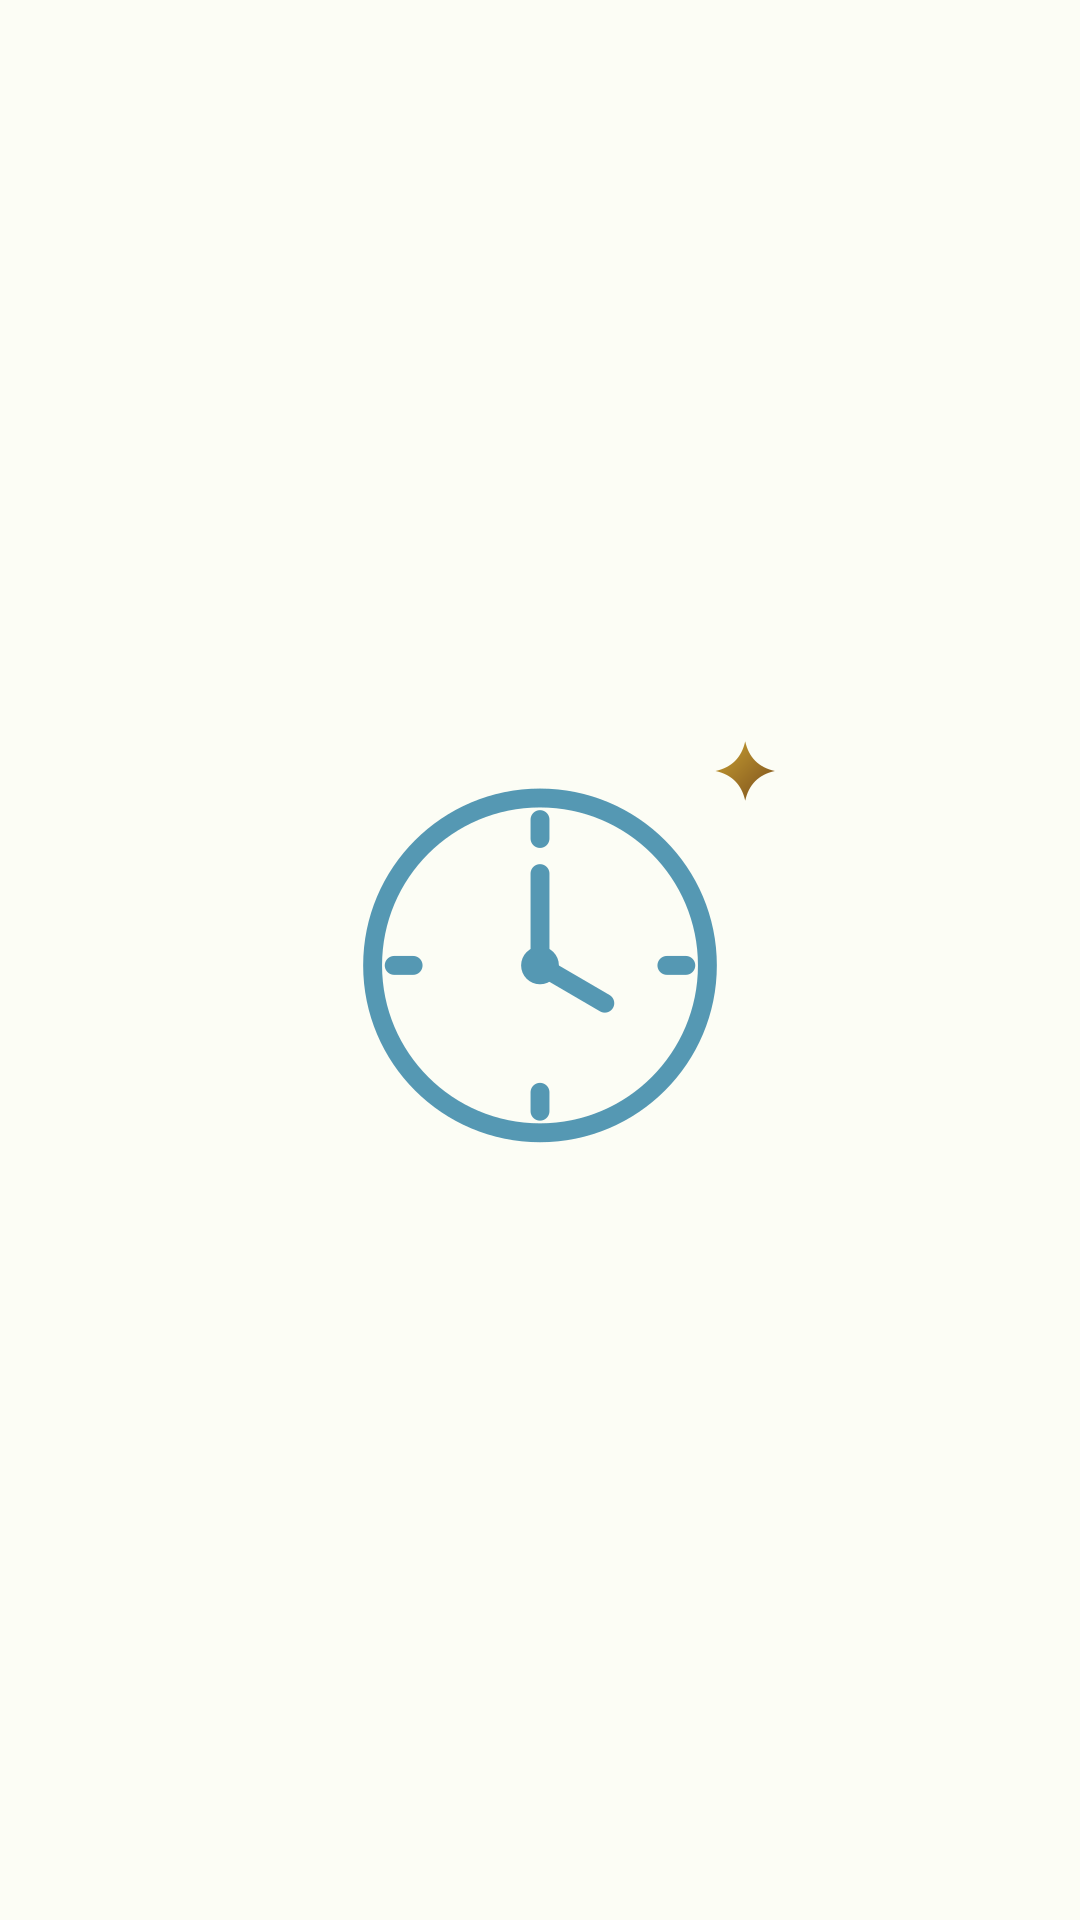
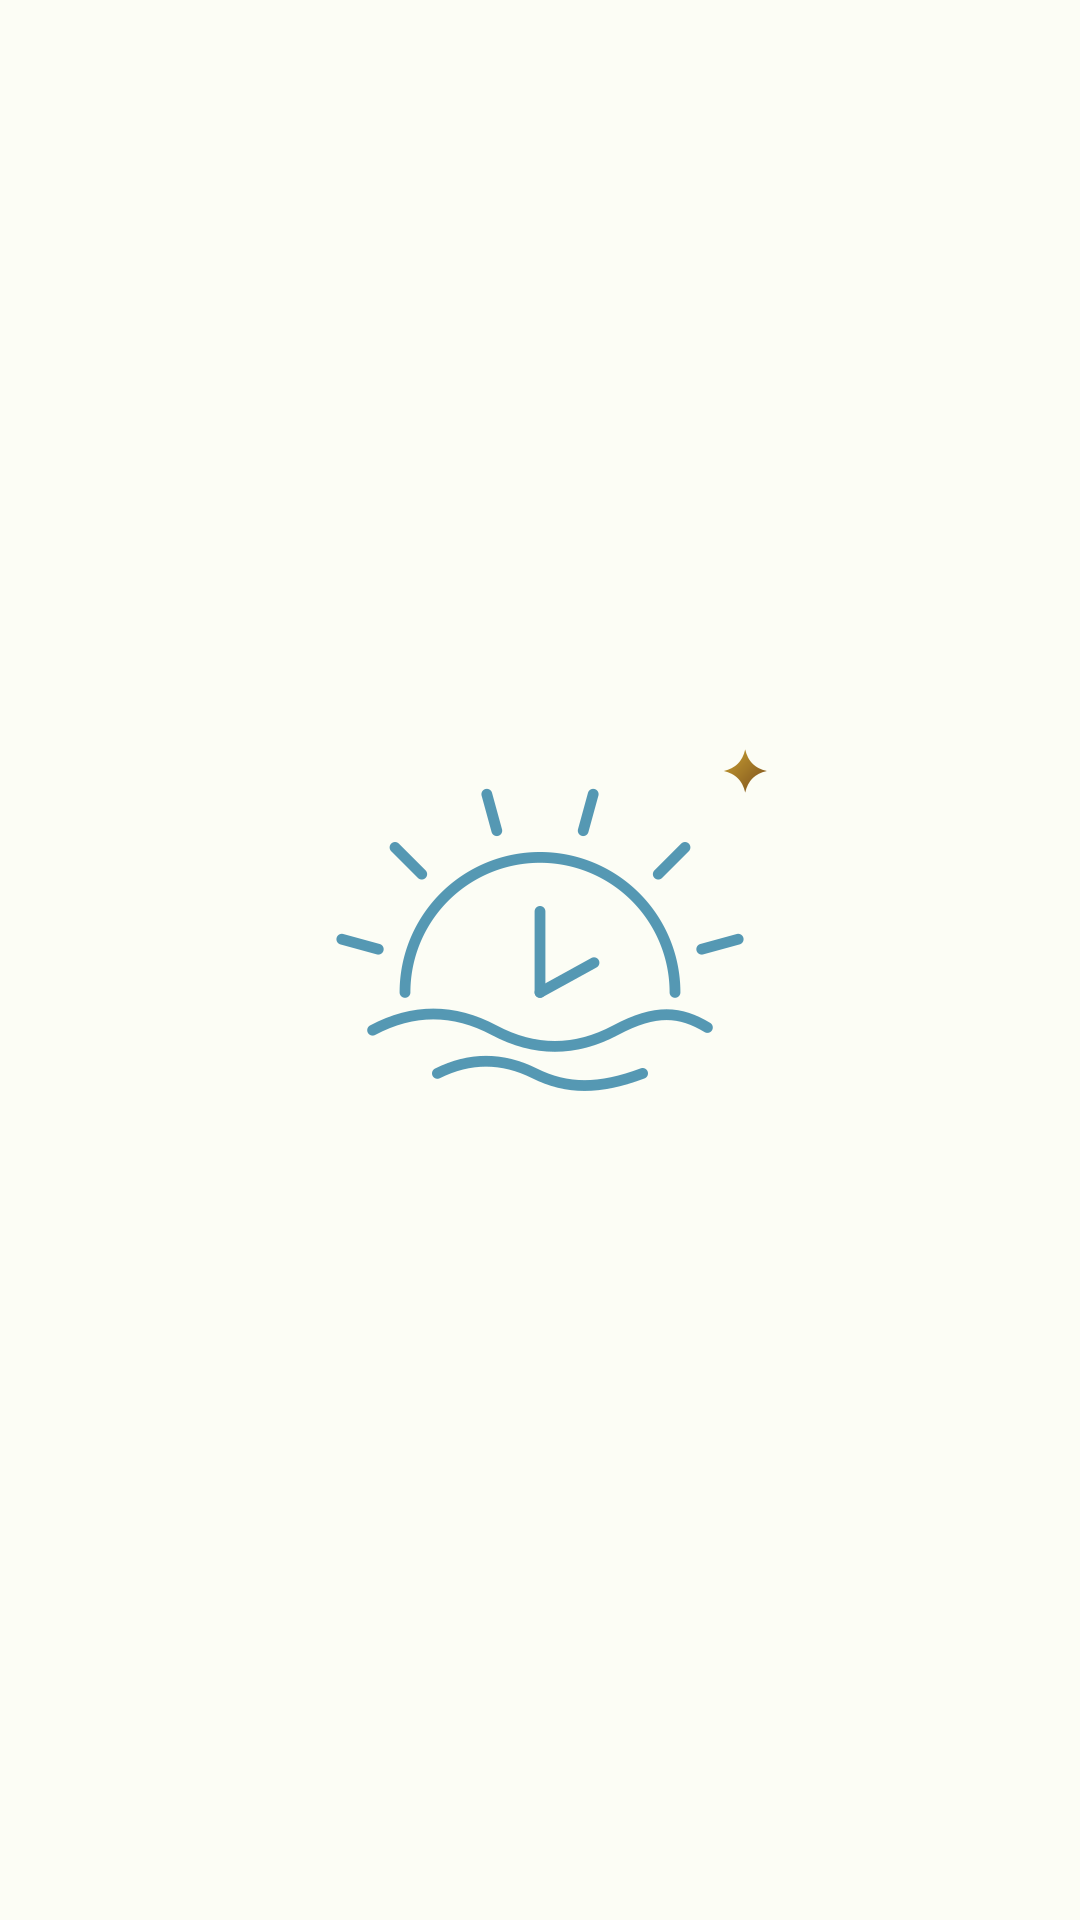
Refaz os ícones dos destaques com temas de moda praia e traço mais fino
Claude-Session: https://claude.ai/code/session_01SEXCXHhE5rPsFTnWY19DpN

Changed region(s): [[0.3056, 0.4062, 0.6722, 0.5938], [0.6722, 0.375, 0.7028, 0.4062]]

diff --git a/madame-solara/gerar_destaques.py b/madame-solara/gerar_destaques.py
@@ -8,30 +8,41 @@ CREME = "#FCFDF5"
 AZUL = "#5598B3"
 W, H = 1080, 1920  # formato de story; o Instagram recorta o círculo do centro
 
-# Ícones desenhados numa grade de 200 x 200
+# Ícones desenhados numa grade de 200 x 200, todos com elementos de moda praia
 ICONES = {
     "trocas": """
-        <path d="M45 78 H155"/><path d="M135 58 L155 78 L135 98"/>
-        <path d="M155 122 H45"/><path d="M65 102 L45 122 L65 142"/>""",
+        <path d="M66 82 Q62 104 72 118 Q86 123 97 113 Q86 97 66 82 Z"/>
+        <path d="M134 82 Q138 104 128 118 Q114 123 103 113 Q114 97 134 82 Z"/>
+        <path d="M66 82 C72 70 82 62 90 56"/><path d="M134 82 C128 70 118 62 110 56"/>
+        <path d="M72 118 Q58 121 46 116"/><path d="M128 118 Q142 121 154 116"/>
+        <circle cx="100" cy="113" r="2.4" fill="{traco}" stroke="none"/><path d="M32.3 75.4 A72 72 0 0 1 162.4 64.0"/><path d="M163.3 53.1 L162.4 64.0 L152.4 59.4"/><path d="M167.7 124.6 A72 72 0 0 1 37.6 136.0"/><path d="M36.7 146.9 L37.6 136.0 L47.6 140.6"/>""",
     "pagamentos": """
-        <rect x="32" y="55" width="136" height="92" rx="12"/>
-        <path d="M32 82 H168"/><path d="M54 122 H88"/><path d="M102 122 H118"/>""",
+        <path d="M52 82 H148 L141 160 Q140 166 134 166 H66 Q60 166 59 160 Z"/>
+        <path d="M80 82 V72 C80 42 120 42 120 72 V82"/>
+        <path d="M56 104 C68 98 78 98 90 104 S112 110 124 104 S138 99 145 103"/>
+        <text x="100" y="151" text-anchor="middle" font-family="Italiana" font-size="36"
+              fill="{traco}" stroke="none">R$</text>""",
     "envios": """
-        <rect x="24" y="66" width="96" height="64" rx="6"/>
-        <path d="M120 86 H149 L174 110 V130 H120 Z"/>
-        <path d="M130 94 H146 L160 108 H130 Z"/>
-        <circle cx="56" cy="140" r="13" fill="{fundo}"/><circle cx="146" cy="140" r="13" fill="{fundo}"/>""",
+        <rect x="36" y="62" width="128" height="88" rx="6"/>
+        <path d="M36 68 L100 112 L164 68"/>
+        <path d="M100 130 C88 124 82 114 84 104 C92 94 108 94 116 104 C118 114 112 124 100 130 Z" fill="{fundo}"/>
+        <path d="M100 130 L92 100"/><path d="M100 130 L100 97"/><path d="M100 130 L108 100"/>""",
     "horarios": """
-        <circle cx="100" cy="102" r="62"/>
-        <path d="M100 102 V68"/><path d="M100 102 L124 116"/>
-        <path d="M100 48 V55"/><path d="M154 102 H147"/><path d="M100 156 V149"/><path d="M46 102 H53"/>
-        <circle cx="100" cy="102" r="3.5" fill="{traco}"/>""",
+        <path d="M50 112 A50 50 0 0 1 150 112"/><path d="M40.1 96.0 L26.6 92.3"/><path d="M56.2 68.2 L46.3 58.3"/><path d="M84.0 52.1 L80.3 38.6"/><path d="M116.0 52.1 L119.7 38.6"/><path d="M143.8 68.2 L153.7 58.3"/><path d="M159.9 96.0 L173.4 92.3"/>
+        <path d="M100 112 V82"/><path d="M100 112 L120 101"/>
+        <path d="M38 126 C53 118 68 118 83 126 S113 134 128 126 S152 119 162 125"/>
+        <path d="M62 142 C74 136 86 136 98 142 S122 148 138 142"/>""",
     "localizacao": """
-        <path d="M100 168 C100 168 52 118 52 86 A48 48 0 0 1 148 86 C148 118 100 168 100 168 Z"/>
-        <circle cx="100" cy="86" r="17"/>""",
+        <path d="M100 148 C100 148 64 112 64 84 A36 36 0 0 1 136 84 C136 112 100 148 100 148 Z"/>
+        <circle cx="100" cy="84" r="12"/>
+        <path d="M44 166 C57 159 70 159 83 166 S109 173 122 166 S146 159 156 165"/>""",
     "cuidados": """
-        <path d="M100 30 C100 30 52 90 52 122 A48 48 0 0 0 148 122 C148 90 100 30 100 30 Z"/>
-        <path d="M70 128 C80 119 90 119 100 128 S120 137 130 128"/>""",
+        <path d="M100 58 V52 C100 45 109 42 110 35 C111 28 103 24 97 27"/>
+        <path d="M100 58 L46 84 Q40 88 47 88 H153 Q160 88 154 84 Z"/>
+        <path d="M71 88 L75 104"/><path d="M129 88 L125 104"/>
+        <path d="M75 104 Q67 128 77 143 Q90 147 98 136 Q90 118 75 104 Z"/>
+        <path d="M125 104 Q133 128 123 143 Q110 147 102 136 Q110 118 125 104 Z"/>
+        <circle cx="100" cy="136" r="2.4" fill="{traco}" stroke="none"/>""",
 }
 
 
@@ -52,9 +63,9 @@ def capa(nome):
         '<stop offset="0" stop-color="#C9A132"/><stop offset="1" stop-color="#7A4E1C"/></linearGradient></defs>',
         f'<rect width="{W}" height="{H}" fill="{CREME}"/>',
         f'<g transform="translate({x0} {y0}) scale({escala})" fill="none" stroke="{AZUL}" '
-        f'stroke-width="7" stroke-linecap="round" stroke-linejoin="round">',
+        f'stroke-width="4" stroke-linecap="round" stroke-linejoin="round">',
         corpo,
-        brilho(176, 30, 11),
+        brilho(176, 30, 8),
         "</g>",
         "</svg>",
     ])
